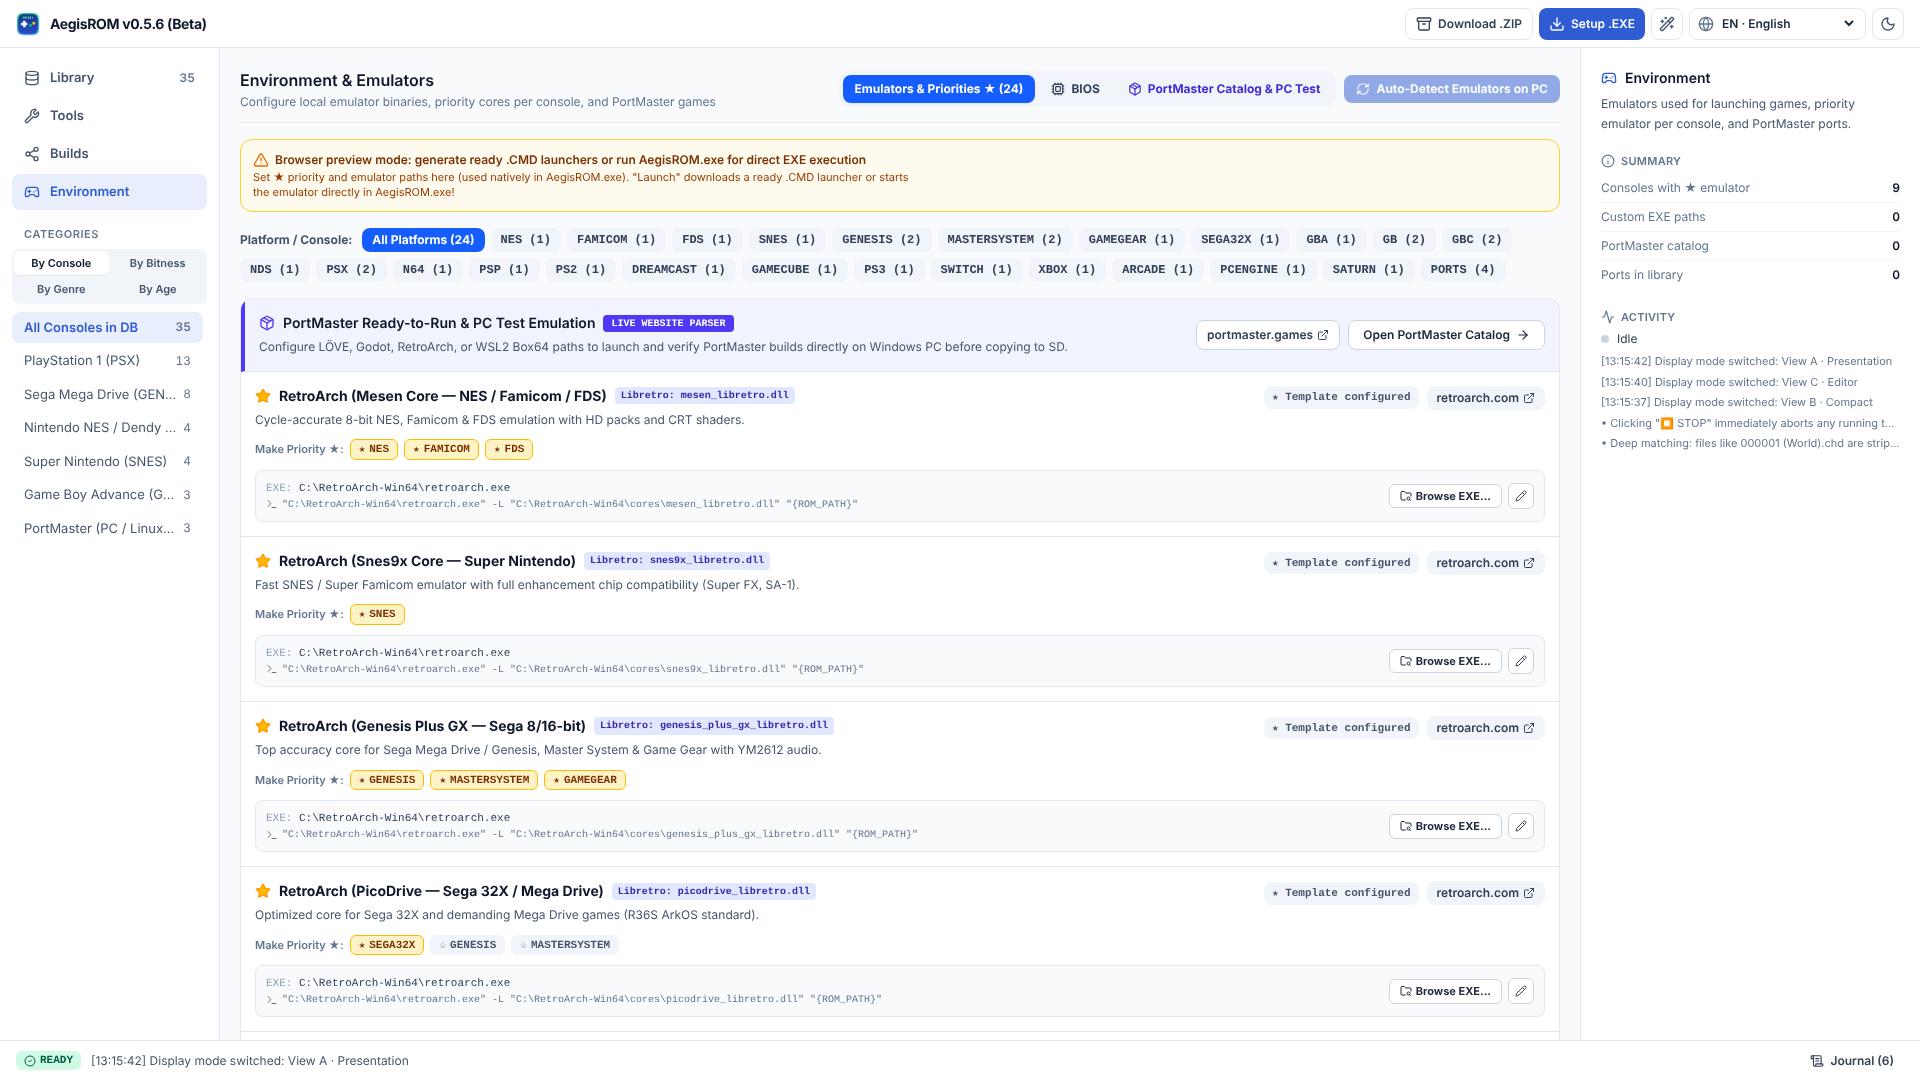
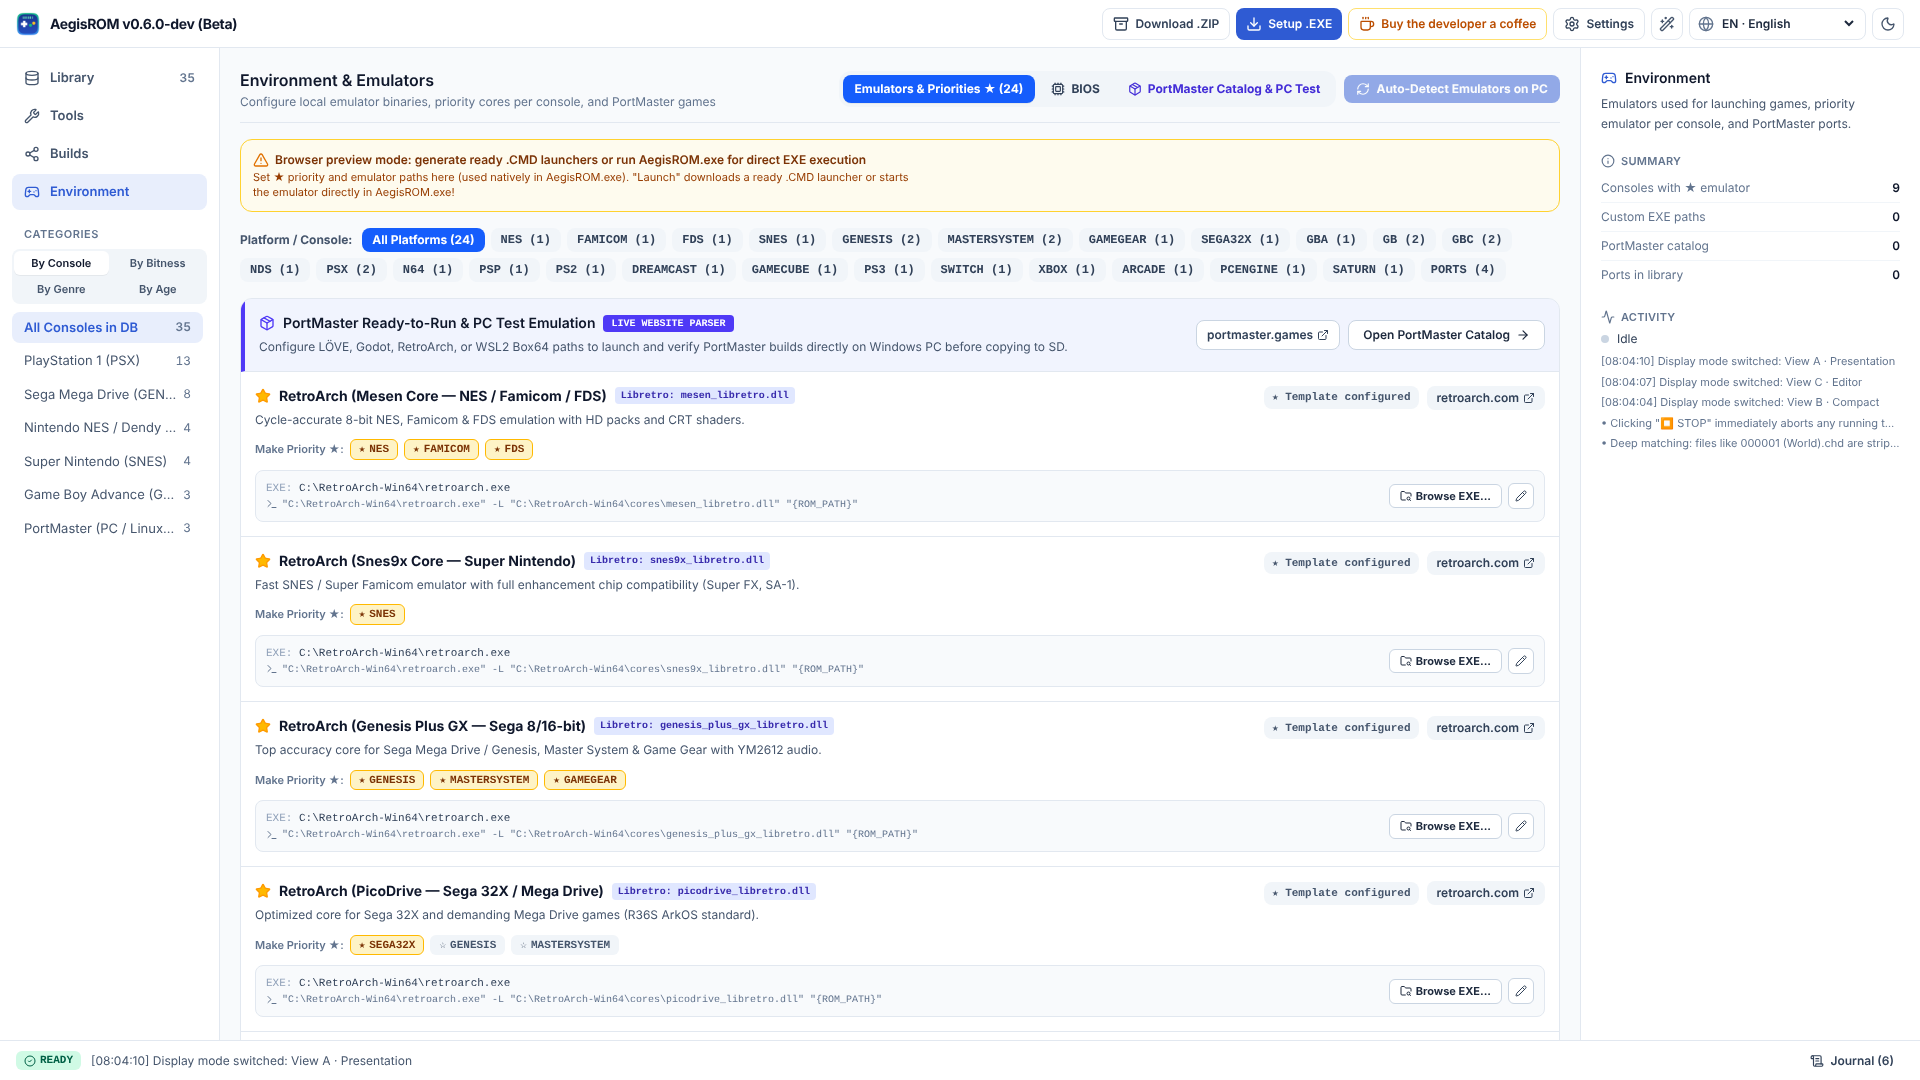
README: свежие скриншоты и новые функции / README: fresh screenshots and new features
RU: Скриншоты пересняты на текущем dev (EN, 1920x1080). Добавлены снимки окна «Настройки»,
выбора медиа и групп в библиотеке, окна «На чём запускать» скраппера с источниками. В README
(EN и RU) описаны настройки и тема, открытие без полного скана, окно выбора области, источники
скраппера и их порядок, быстрая выгрузка сборки с медиа и gamelist.xml. Скрипт скриншотов
снимает новые окна.

EN: Screenshots retaken on current dev (EN, 1920x1080). New shots: Settings, library media and
groups, the scraper "What to run on" window with sources. README (EN and RU) now covers settings
and theme, opening without a full scan, the scope window, scraper sources and their order, and
fast build export with media and gamelist.xml. The screenshot script captures the new dialogs.

Claude-Session: https://claude.ai/code/session_01HhSBF1SiYMEgnATejFq6PC

diff --git a/README.md b/README.md
@@ -38,18 +38,24 @@ The app scans your collection and identifies games by checksums and disc serial 
 - Save and open the library database so you don't have to rescan your drives.
 - **Collections**: one game released on several consoles is shown as one group; the game card shows a description from Wikidata.
 - **Groups and media**: show only collections, only series or no single games, in any mix and inside one console; pick the picture the cards show (box art, screenshot, title screen, banner), all cards the same size, thumbnails in the list.
+- **Opening without a full scan**: when a database already exists, picking the folder only grants access to it. 1G1R, renaming, the scraper and moves take ROMs from the database and don't read every file again.
 - **Play** `beta`: the built-in emulator (EmulatorJS) runs a game right in the app window, no emulator install needed. Sega CD and PC Engine CD take their BIOS from the BIOS section.
 
 | List | Editor |
 |---|---|
 | <img src="docs/screenshots/compact.png" alt="List mode" /> | <img src="docs/screenshots/editor.png" alt="Editor mode" /> |
 
+| Card media | Groups |
+|---|---|
+| <img src="docs/screenshots/library-media.png" alt="Choosing the picture on cards" /> | <img src="docs/screenshots/library-groups.png" alt="Groups: collections and series" /> |
+
 > Features marked `beta` are already in the app but still in development: they may not always work, or may not work as expected. If something is wrong, please report it in [Issues](https://github.com/wirgylle/AegisROM/issues).
 
 ### 🛠 Tools
 - **Scanning** with identification by CRC32 (including headerless ROMs) and disc serial codes (`SLUS`, `SCES`, `SLPS`).
 - **1G1R (one game, one ROM):** out of all versions of a game, the best one by your region priority is kept, for example `Russia → USA → Europe → Japan`.
-- **Box art and video scraper** (Libretro, Archive.org). Finds empty placeholder images and re-downloads them, leaves good files alone.
+- **Box art and video scraper**: Libretro (the libretro-thumbnails catalog on GitHub, cached for 14 days), ScreenScraper (with a screenscraper.fr account), Archive.org and ready-made media from another program (a Skraper, ES-DE, Batocera or RetroBat folder with `gamelist.xml`: nothing is downloaded and there are no limits). Before a run you pick the sources and their order; if a source finds nothing, has no login or hits its limit, the next one is used. In the same window you choose what to download: box art, screenshot, logo/banner, video. Games that had no media last time are skipped by default, and the summary shows why games were missed. Empty placeholder images are re-downloaded, good files are left alone, and cleanup no longer deletes media of multi-disc games or files referenced by `gamelist.xml`.
+- **"What to run on" window** for 1G1R, online rename and the scraper: consoles, bitness, folders, single games, collections and series, "only without media", "only new".
 - **Names by hash**: matching against No-Intro (cartridges) and Redump (discs) DAT files by CRC32 / SHA1, and by serial number for PBP and large images. A name found this way takes priority over online search, and its source is shown in the game card. How to add a DAT: [docs/dat.md](docs/dat.md).
 - **Renaming**: by hash from a DAT, online search, `gamelist.xml` and ROM headers. Understands numbered files like `000001.chd`, as found on stock R36S cards.
 - **File name builder**: title, region, language, translation author, disc number, extension case, `[T+Rus]` / `[Hack]` status tag.
@@ -61,10 +67,13 @@ The app scans your collection and identifies games by checksums and disc serial 
 
 <p align="center"><img src="docs/screenshots/tools.png" alt="Tools" width="900" /></p>
 
+<p align="center"><img src="docs/screenshots/scope-scraper.png" alt="Scraper: scope, sources and media types" width="900" /></p>
+
 ### 📦 Builds
 - Ready-made themed collections: by age (6+, 10+, 14+, 18+), by mood, by genre and bitness. Or your own build via filters.
 - Fitting to SD card size: 16, 32, 64, 128, 256 GB, leaving room for firmware and BIOS.
 - Syncing a build with the main library, showing the differences.
+- **Fast export**: several ROMs are copied at once and files already there with the same size are skipped, so a repeated export only copies what's new. Media (box art, image, banner, video) and a `gamelist.xml` with titles and descriptions go with the build, laid out for your device.
 - **Image converter**: `.cue/.bin`, `.iso`, `.gdi` → `.chd` (via `chdman`), plus `.pbp` and `.cso`.
 - **PortMaster catalog** `beta`: list of ports with a "ready to run" / "needs files from Steam or GOG" filter and automatic placement into `ports/`.
 
@@ -79,6 +88,11 @@ The app scans your collection and identifies games by checksums and disc serial 
 <p align="center"><img src="docs/screenshots/environment.png" alt="Emulator environment" width="900" /></p>
 
 <p align="center"><img src="docs/screenshots/bios.png" alt="BIOS section" width="900" /></p>
+
+### ⚙ Settings
+The Settings button in the header: theme (light, dark or same as system), language, start section and library view, sorting, 1G1R priority, rename on sort, scraper, duplicate deletion, combine and SD card. These values apply on every start; switches inside sections change only the current session.
+
+<p align="center"><img src="docs/screenshots/settings.png" alt="Settings window" width="900" /></p>
 
 ### 🌍 9 UI languages
 Русский, English, Deutsch, Español, Français, Italiano, 日本語, Srpski (Latin), 简体中文. The language is detected automatically, with a switcher in the header.
